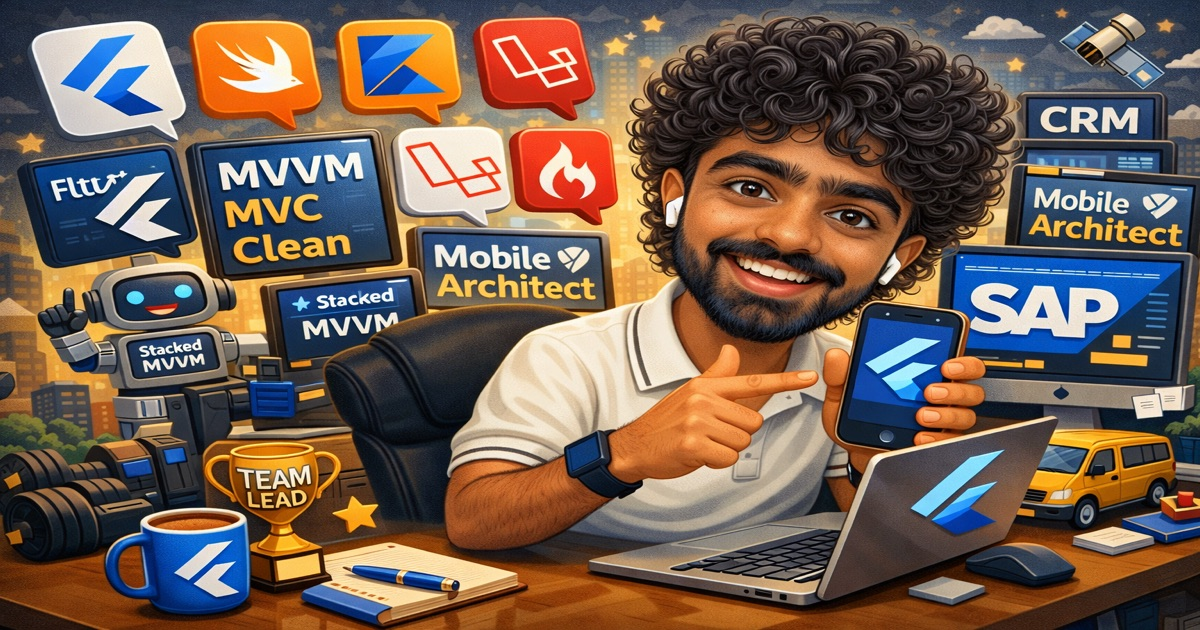
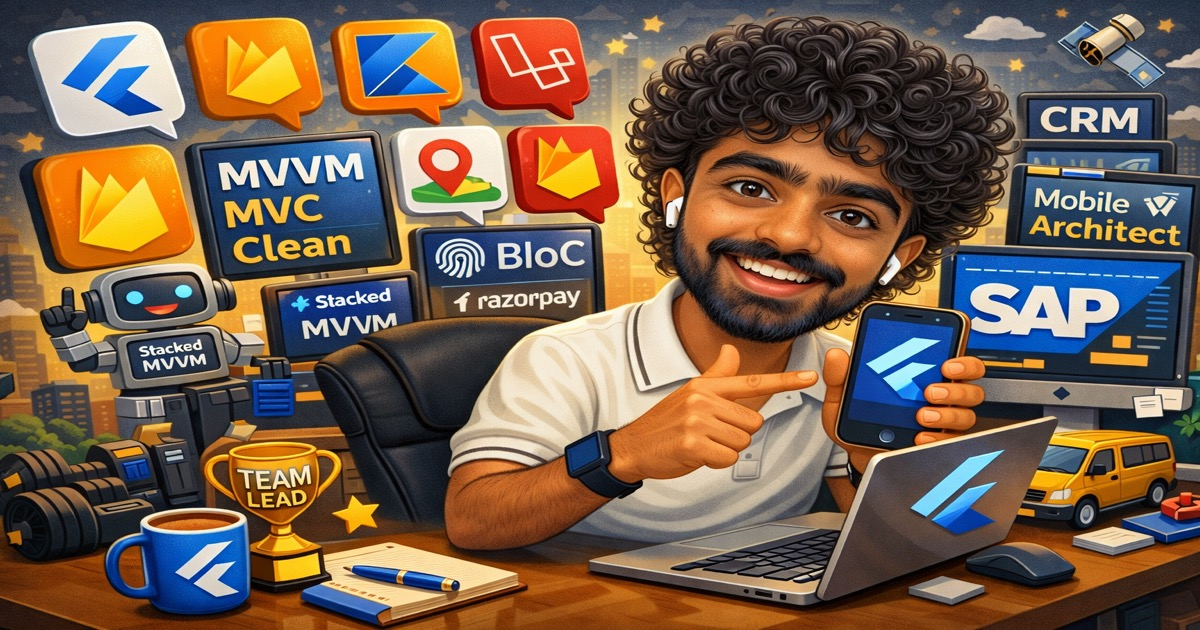
Update og-image with new caricature (293KB, WhatsApp-optimized)

diff --git a/docs/flutter_service_worker.js b/docs/flutter_service_worker.js
@@ -3,52 +3,52 @@ const MANIFEST = 'flutter-app-manifest';
 const TEMP = 'flutter-temp-cache';
 const CACHE_NAME = 'flutter-app-cache';
 
-const RESOURCES = {"flutter.js": "24bc71911b75b5f8135c949e27a2984e",
-"favicon_temp.png": "2a36a073fa59e2c1c7b0432b7a5b6b8e",
-"og-image.jpg": "c04ec2bcf5933933b6b23233a4357bdc",
-"icons/Icon-512.png": "a1aa97e33a608787bdb68649d3db8eed",
-"icons/Icon-maskable-512.png": "d34e2437f3228184ebb5252e79669301",
-"icons/Icon-192.png": "75920ade64c23b27071cd318821db7c7",
-"icons/Icon-maskable-192.png": "29039aac6086b31e7137d74ca3c82448",
+const RESOURCES = {"flutter_bootstrap.js": "7057a29ace930b947b9978052a3e157d",
+"white_ring.png": "0cddf2ee915e752780574c2bc76b9cc8",
+"version.json": "009c9e65172e010890f7f65fde438006",
 "og-image.svg": "90920fe6c2436b29d29083b86612995c",
-"manifest.json": "8f0e26764426b935edd56bef38010b2d",
 "index.html": "2617e439333a97f36d43919a3972a0d7",
 "/": "2617e439333a97f36d43919a3972a0d7",
+"CNAME": "4b83838458ad4b966c90970fb32ce04c",
+"main.dart.js": "a84697d176ebe2198fe9228f133cfde9",
+"flutter.js": "24bc71911b75b5f8135c949e27a2984e",
+"favicon_temp.png": "2a36a073fa59e2c1c7b0432b7a5b6b8e",
+"og-image.png": "6e3980e8af45fd212651f6043ec3d7a5",
+"og-image.jpg": "241bcd23a75d32390a280902fa2fb317",
+"gradient_ring.png": "e258f8018062e2a6865979b5197d5042",
+"favicon.png": "a1aa97e33a608787bdb68649d3db8eed",
 "profile_circle.png": "5ca120110cfab957c90948f1990e0da2",
-"white_ring.png": "0cddf2ee915e752780574c2bc76b9cc8",
-"assets/shaders/stretch_effect.frag": "40d68efbbf360632f614c731219e95f0",
-"assets/shaders/ink_sparkle.frag": "ecc85a2e95f5e9f53123dcaf8cb9b6ce",
+"icons/Icon-192.png": "75920ade64c23b27071cd318821db7c7",
+"icons/Icon-maskable-192.png": "29039aac6086b31e7137d74ca3c82448",
+"icons/Icon-maskable-512.png": "d34e2437f3228184ebb5252e79669301",
+"icons/Icon-512.png": "a1aa97e33a608787bdb68649d3db8eed",
+"manifest.json": "8f0e26764426b935edd56bef38010b2d",
+"assets/NOTICES": "157fd1c01fd69b60ecf0d6f42249921a",
+"assets/FontManifest.json": "c75f7af11fb9919e042ad2ee704db319",
 "assets/AssetManifest.bin.json": "fd0b2db619e83205d6eca37c5b0c6fcc",
-"assets/assets/resume/Akshay_Chand_T_-_Flutter_Developer_Resume.pdf": "ee25e829b261c14b6f63d9bc15324462",
+"assets/packages/cupertino_icons/assets/CupertinoIcons.ttf": "33b7d9392238c04c131b6ce224e13711",
+"assets/packages/font_awesome_flutter/lib/fonts/Font-Awesome-7-Free-Regular-400.otf": "8d0acfbf774979914d3c0d736f4be13e",
+"assets/packages/font_awesome_flutter/lib/fonts/Font-Awesome-7-Brands-Regular-400.otf": "6f3a04a78511aec0ea47a90cdebf7266",
+"assets/packages/font_awesome_flutter/lib/fonts/Font-Awesome-7-Free-Solid-900.otf": "d7b4862e9bb897f7d8bef7294c2090ca",
+"assets/shaders/ink_sparkle.frag": "ecc85a2e95f5e9f53123dcaf8cb9b6ce",
+"assets/shaders/stretch_effect.frag": "40d68efbbf360632f614c731219e95f0",
+"assets/AssetManifest.bin": "316e3bed09e53ba609d6cf9f6e9d5b60",
+"assets/fonts/MaterialIcons-Regular.otf": "a8ebc180910b5668afd519d8bfbe269d",
 "assets/assets/images/profile_dark.jpg": "ef389f08d1576d7aaddfdd48c0a9583e",
 "assets/assets/images/profile_light.jpg": "7d0248b0392f51cd5f2e73a0d0e4644b",
-"assets/fonts/MaterialIcons-Regular.otf": "a8ebc180910b5668afd519d8bfbe269d",
-"assets/NOTICES": "157fd1c01fd69b60ecf0d6f42249921a",
-"assets/packages/cupertino_icons/assets/CupertinoIcons.ttf": "33b7d9392238c04c131b6ce224e13711",
-"assets/packages/font_awesome_flutter/lib/fonts/Font-Awesome-7-Free-Solid-900.otf": "d7b4862e9bb897f7d8bef7294c2090ca",
-"assets/packages/font_awesome_flutter/lib/fonts/Font-Awesome-7-Brands-Regular-400.otf": "6f3a04a78511aec0ea47a90cdebf7266",
-"assets/packages/font_awesome_flutter/lib/fonts/Font-Awesome-7-Free-Regular-400.otf": "8d0acfbf774979914d3c0d736f4be13e",
-"assets/FontManifest.json": "c75f7af11fb9919e042ad2ee704db319",
-"assets/AssetManifest.bin": "316e3bed09e53ba609d6cf9f6e9d5b60",
-"canvaskit/chromium/canvaskit.wasm": "a726e3f75a84fcdf495a15817c63a35d",
-"canvaskit/chromium/canvaskit.js": "a80c765aaa8af8645c9fb1aae53f9abf",
-"canvaskit/chromium/canvaskit.js.symbols": "e2d09f0e434bc118bf67dae526737d07",
-"canvaskit/skwasm_heavy.wasm": "b0be7910760d205ea4e011458df6ee01",
-"canvaskit/skwasm_heavy.js.symbols": "0755b4fb399918388d71b59ad390b055",
+"assets/assets/resume/Akshay_Chand_T_-_Flutter_Developer_Resume.pdf": "ee25e829b261c14b6f63d9bc15324462",
 "canvaskit/skwasm.js": "8060d46e9a4901ca9991edd3a26be4f0",
-"canvaskit/canvaskit.wasm": "9b6a7830bf26959b200594729d73538e",
 "canvaskit/skwasm_heavy.js": "740d43a6b8240ef9e23eed8c48840da4",
-"canvaskit/canvaskit.js": "8331fe38e66b3a898c4f37648aaf7ee2",
-"canvaskit/skwasm.wasm": "7e5f3afdd3b0747a1fd4517cea239898",
-"canvaskit/canvaskit.js.symbols": "a3c9f77715b642d0437d9c275caba91e",
 "canvaskit/skwasm.js.symbols": "3a4aadf4e8141f284bd524976b1d6bdc",
-"favicon.png": "a1aa97e33a608787bdb68649d3db8eed",
-"gradient_ring.png": "e258f8018062e2a6865979b5197d5042",
-"CNAME": "4b83838458ad4b966c90970fb32ce04c",
-"og-image.png": "6e3980e8af45fd212651f6043ec3d7a5",
-"flutter_bootstrap.js": "670e0d016a64fa42f88b9f4cb971eca0",
-"version.json": "009c9e65172e010890f7f65fde438006",
-"main.dart.js": "a84697d176ebe2198fe9228f133cfde9"};
+"canvaskit/canvaskit.js.symbols": "a3c9f77715b642d0437d9c275caba91e",
+"canvaskit/skwasm_heavy.js.symbols": "0755b4fb399918388d71b59ad390b055",
+"canvaskit/skwasm.wasm": "7e5f3afdd3b0747a1fd4517cea239898",
+"canvaskit/chromium/canvaskit.js.symbols": "e2d09f0e434bc118bf67dae526737d07",
+"canvaskit/chromium/canvaskit.js": "a80c765aaa8af8645c9fb1aae53f9abf",
+"canvaskit/chromium/canvaskit.wasm": "a726e3f75a84fcdf495a15817c63a35d",
+"canvaskit/canvaskit.js": "8331fe38e66b3a898c4f37648aaf7ee2",
+"canvaskit/canvaskit.wasm": "9b6a7830bf26959b200594729d73538e",
+"canvaskit/skwasm_heavy.wasm": "b0be7910760d205ea4e011458df6ee01"};
 // The application shell files that are downloaded before a service worker can
 // start.
 const CORE = ["main.dart.js",

diff --git a/docs/flutter_bootstrap.js b/docs/flutter_bootstrap.js
@@ -38,6 +38,6 @@ _flutter.buildConfig = {"engineRevision":"1527ae0ec577a4ef50e65f6fefcfc1326707d9
 
 _flutter.loader.load({
   serviceWorkerSettings: {
-    serviceWorkerVersion: "993137273"
+    serviceWorkerVersion: "1582616287"
   }
 });
